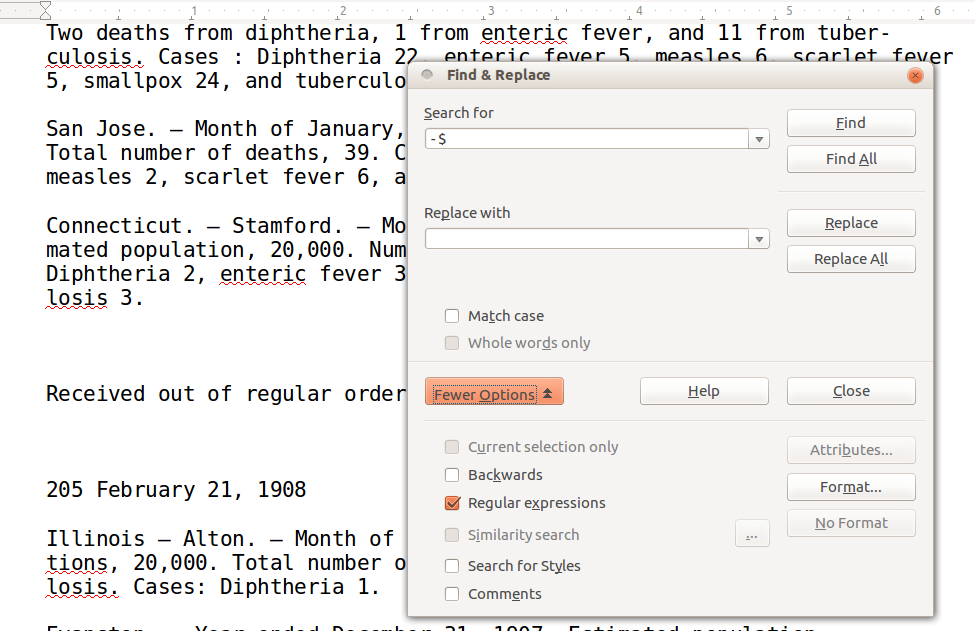
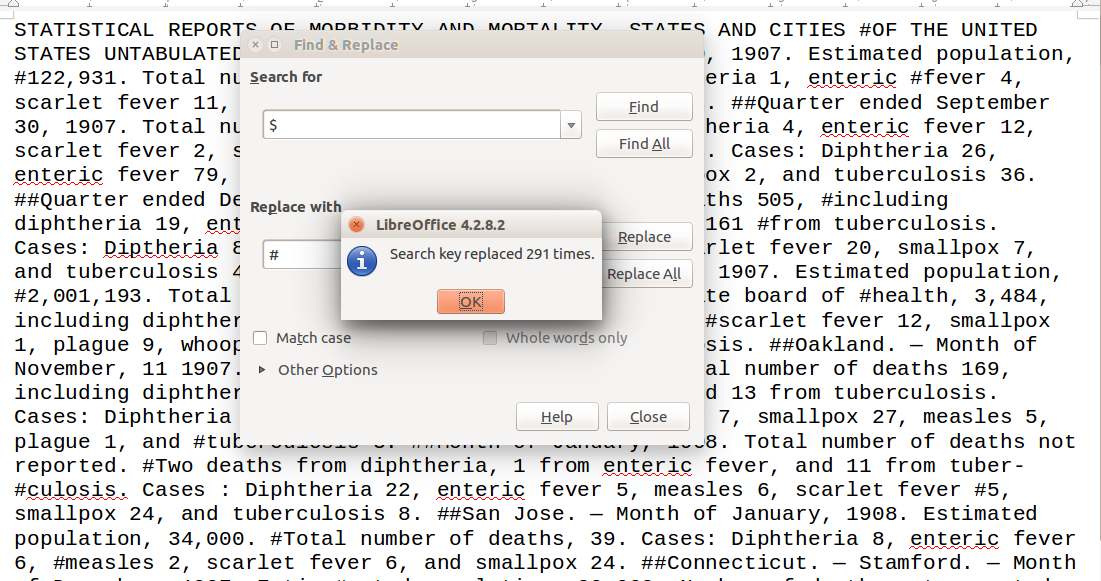
correction to understanding regex lesson; resolves issue #179

diff --git a/lessons/understanding-regular-expressions.md b/lessons/understanding-regular-expressions.md
@@ -164,38 +164,75 @@ all our work with regular expressions in Writer, but keep Calc open in
 the background. We can return to it to paste future iterations and gauge
 our progress.
 
-Returning to Writer, we will want to get rid of the line breaks that we
-don't need — but there are some end-of-line hyphenations we should clean
-up first. This time we will start using regular expressions. On the Find
-& Replace box show `More Options` (Other Options on Mac) and make sure
-the `Regular expressions` checkbox is selected. This will enable us to
-use special symbols to define general patterns to match.
+Returning to Writer, we will want to get rid of the line breaks that
+we don't need — but there are some end-of-line hyphenations we should
+clean up first. This time we will start using regular expressions, but with a disclaimer that regular expression implementations differ in their handling of line breaks more than in their features for matching patterns within lines.
+
+Regular expressions in LibreOffice do not readily match patterns of
+text that extend across line breaks, so we will adopt an indirect
+strategy . We will first replace line breaks with a placeholder
+character — let's use `#`  — that does not otherwise appear in our
+text.
+
+In the Find & Replace box show `More Options` (Other Options on Mac)
+and make sure the `Regular expressions` checkbox is selected. This
+will enable us to use special symbols to define general patterns to
+match.
 
 Using find-and-replace,
 
-*replace* `- $` *(hyphen-space-dollar-sign) with nothing.*
+*replace* `$` *with `#`.*
 
 {% include figure.html src="../images/regex_02_moreoptions.png" caption="Figure 3: The 'More Options' tab in Open Office Find & Replace" %}
 
-The dollar sign symbol is a special symbol in this case that matches the
-end of each line. You might start by clicking `Find` and then `Replace`
-when you see that the highlighted selection matches your expectations.
-After repeating this a few times you can click `Replace All` to replace
-all the rest at once. If you make a mistake or are uncertain, you can
-undo recent steps with `Edit → Undo` from the menu bar, or keyboard
-shortcut `Ctrl+Z` (Cmd+Z on Mac). In this document there are 27 total
-matches for this particular pattern.
+The dollar sign symbol
+is a special symbol that traditionally matches the end of each line in
+order to anchor a larger pattern. However, while it can have this
+function in LibreOffice in larger patterns, LibreOffice will not let
+us let us match text across line breaks. But LibreOffice will let us
+use the `$` character on its own, without other patterns, to match and
+replace line breaks independent of other characters.
 
-Next, again using find-and-replace,
+To carry out a search and replace operation, you might start by
+clicking `Find` and then `Replace` when you see that the highlighted
+selection matches your expectations. After repeating this a few times
+you can click `Replace All` to replace all the rest at once. If you
+make a mistake or are uncertain, you can undo recent steps with `Edit
+→ Undo` from the menu bar, or keyboard shortcut `Ctrl+Z` (Cmd+Z on
+Mac). 
 
-*replace all* `$` *(just a dollar sign) with nothing.*
+In this document replacing line ends results in 291
+replacements. (Your number may differ slightly depending on the number
+of lines you copied.)  This sequence of replacements will make the
+text less readable, temporarily, but it's necessary because we cannot
+match patterns across line breaks, but we can match across a `#`
+character.
 
-There are 225 replacements with this pattern. At first it may not be
-clear what happened here, but this has in fact made each paragraph a
-single paragraph or logical line. In LibreOffice (and similar word
-processing programs) you can turn on nonprinting characters
-(View→Nonprinting Characters with shortcut
-`Ctrl-F10 on Windows or Linux`) to see line and paragraph breaks.
+Next let's close up our hyphenated words. This in fact can now be
+accomplished by literal replacement without relying on generalized
+pattern matching.
+
+Again using find-and-replace,
+
+*replace all* `- #` *(hyphen-space-hash) with nothing.*
+
+This will close up patterns like "tuber- #culosis" to "tuberculosis" on one line, and will make a total of 27 replacements in this case.
+
+Next: 
+
+*replace all* `##` with `\n`. 
+
+This results in 71 replacements. In this step we take what were originally paragraph breaks, which appeared as double line breaks, and then were represented as doubled `#` characters, and we turn them back again into actual single line breaks. These will function in a spreadsheet context to mark new rows.
+
+To conclude our line break work:
+
+*replace all* `#` *with* ` ` *(a single space). This will get rid of 122 line breaks that were not paragraph breaks in the original text.
+
+At first it may not be clear what happened here, but this has in fact
+made each paragraph a single paragraph or logical line. In LibreOffice
+(and similar word processing programs) you can turn on nonprinting
+characters (View→Nonprinting Characters with shortcut `Ctrl-F10 on
+Windows or Linux`) to see line and paragraph breaks.
 
 {% include figure.html src="../images/regex_03_lines.png" caption="Figure 4: Non-Printing Characters in LibreOffice" %}
 
